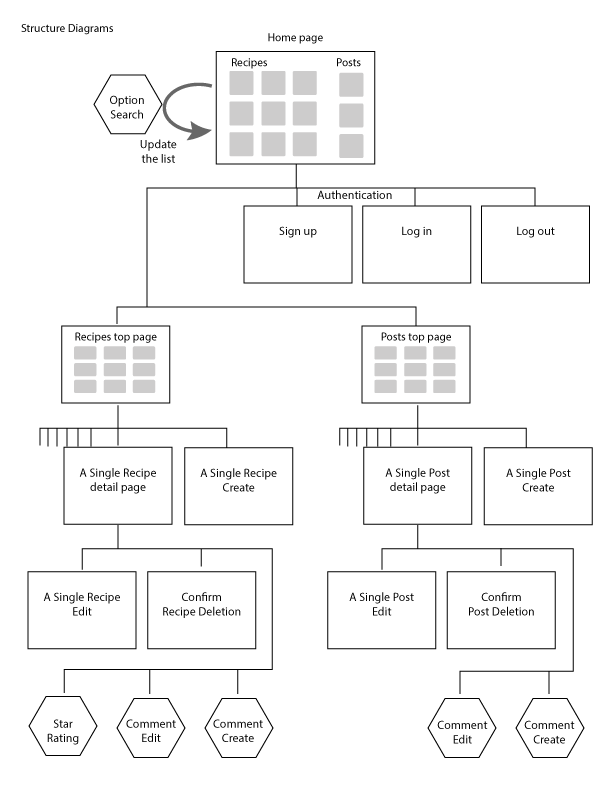
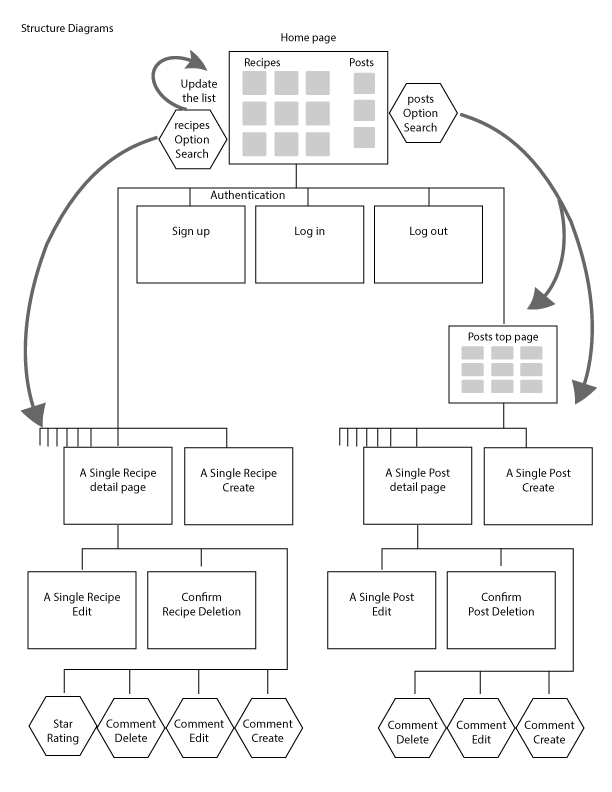
doc: Update README descriptions and structure diagram &  some fixings

diff --git a/templates/500.html b/templates/500.html
@@ -4,7 +4,7 @@
 
 {% block content %}
     <div class="container text-center">
-        <h1>Internal Server Error</h1>
+        <h2>Internal Server Error</h2>
         <p>500 Error - The server has encountered an unexpected condition or configuration problem.</p>
         <p>Please try again from Hope page.</p>
         <a href="{% url 'home' %}" class="btn btn-success w-25">Home</a>

diff --git a/templates/400.html b/templates/400.html
@@ -4,7 +4,7 @@
 
 {% block content %}
     <div class="container text-center">
-        <h1>Bad Request</h1>
+        <h2>Bad Request</h2>
         <p>400 Error - It means the server cannot process the request due to client-side issues.</p>
         <p>Please try again from Hope page.</p>
         <a href="{% url 'home' %}" class="btn btn-success w-25">Home</a>

diff --git a/templates/403.html b/templates/403.html
@@ -4,7 +4,7 @@
 
 {% block content %}
     <div class="container text-center">
-        <h1>Access Not Granted</h1>
+        <h2>Access Not Granted</h2>
         <p>403 Error - Unauthorized Access</p>
         <p>You're not authorized to perform this action.</p>
         <a href="{% url 'home' %}" class="btn btn-success w-25">Home</a>

diff --git a/templates/404.html b/templates/404.html
@@ -4,7 +4,7 @@
 
 {% block content %}
     <div class="container text-center">
-        <h1>Page Not Found</h1>
+        <h2>Page Not Found</h2>
         <p>404 Error - Couldn't find the page.</p>
         <p>Please try again from the top page.</p>
         <a href="{% url 'home' %}" class="btn btn-success w-25">Home</a>

diff --git a/README.md b/README.md
@@ -1,8 +1,17 @@
 # Healthy Food Recipe
-The website aims to raise awareness of health and wellness through recipe sharing and community group discussion.
-It was originally planned as part of a previous project, but midway through development my standup teacher advised me that it would be better to make it a standalone project separate from the previous one. Therefore, I have made some changes to the color theme and purpose of the site from the wireframe design.  
+This website aims to raise awareness of health and wellness by sharing recipes with an emphasis on good and safe ingredients.   
+  
+The target users are people looking for healthier living and recipes, especially those with health issues such as diabetes or allergies.  
+One notable feature in this website is the various search options for recipe categories for the target peoples.  
+And if the user create a new recipe that uses safe ingredients, sharing it is a great option for others to use too.  
+  
+We also provide a health article posting and sharing feature to encourage active communication, information sharing, and sometimes discussion in community groups.  
+I hope that these activities will inspire all of us to make better food and lifestyle choices.
+ 
 
 ![Healthy Food Recipe](readme-img/amiresponsive.png "Healthy Food Recipe")
+  
+**[Heroku deployed site - Healthy Food Recipe](https://healthy-food-c44b0f8f09a5.herokuapp.com/ "Heroku deployed site - Healthy Food Recipe")**  
 
 ## 1. Strategy Plane
 ### Target users 
@@ -39,13 +48,12 @@ It was originally planned as part of a previous project, but midway through deve
 *	As a site owner, I want to convey clearly that the "Healthy Food Recipe" is not only about recipes.  
 
 ## 3. Structure Plane
-* The website should have a Navigation menu that is consistent across all pages.
-* The website should have a fixed footer to access anytime to see this site's SNS.
-* The website should have breadcrumbs to help users feel a strong sense of place and also give access to previous pages when it expands to become a larger website.
+*   The website should have a Navigation menu that is consistent across all pages.
+*   The website should have breadcrumbs to help users feel a strong sense of place and also give access to previous pages when it expands to become a larger website.
 *	The website should have hover interaction for links, abbreviation, and tooltips with additional information to enhance user experience.
-* The landing page should show what this site is offering intuitively.
-* Burger icon is commonly used on smaller screens, so using this convention suits users' expectations.
-*	The Sign-up page submit button should be clearly visible and interactive when the mouse hovers over it. 
+*   The landing page should show what this site is offering intuitively.
+*   Burger icon is commonly used on smaller screens, so using this convention suits users' expectations.
+*   The link buttons, form buttons should be clearly visible and interactive. 
 
 ## 4. Skeleton Plane  
 
@@ -60,7 +68,8 @@ It was originally planned as part of a previous project, but midway through deve
 </details>  
 
 ### Wireframes
-   
+This website was originally planned as part of a previous project, but midway through my development my standup teacher advised me that it would be better to make it a standalone project separate from the previous one to avoid confusion. Therefore, I have made some design changes. 
+
 <details open>
 <summary>For first time visitor - tablet and PC monitor</summary>
 
@@ -170,7 +179,11 @@ For the site's basic font, I was considering using "Quicksand" for the best read
 * Message  
 ![ Message ](readme-img/feat-message.png " Message ")  
 
-
+* Breadcrumb  
+![ Breadcrumb ](readme-img/feat-breadcrumb.png " Breadcrumb ")  
+This breadcrumb is for a Post's single page's edit page.   
+The hierarchy is in this order:　Top page > List Page > Single post page > Edit 　
+The recipe's app doesn't have it's own list page as the Home (Top) page is working as a recipe's list page.
 
 
 # Future features

diff --git a/README-TEST.md b/README-TEST.md
@@ -98,7 +98,7 @@ I've tested my deployed project using the Lighthouse Audit tool.
 | Page | Size | Screenshot | Notes |
 | --- | --- | --- | --- |
 | Home | Mobile | ![screenshot](readme-img/validation/light-mb-home.png) | Some minor performance warnings |
-| Recipe create | Mobile | ![screenshot](readme-img/validation/light-mb-recipes-add.png) | Some minor performance warnings |
+| Recipe create | Mobile | ![screenshot](readme-img/validation/light-mb-recipes-add.png) | Accessibility point deducted from this error "<frame> or <iframe> elements do not have a title" This caused summernote and outof my controll |
 | Recipe detail | Mobile | ![screenshot](readme-img/validation/light-mb-recipes-detail.png) | Some minor performance warnings |
 | Recipe edit | Mobile | ![screenshot](readme-img/validation/) | Some minor performance warnings |
 | Recipe delete | Mobile | ![screenshot](readme-img/validation/) | Some minor performance warnings |
